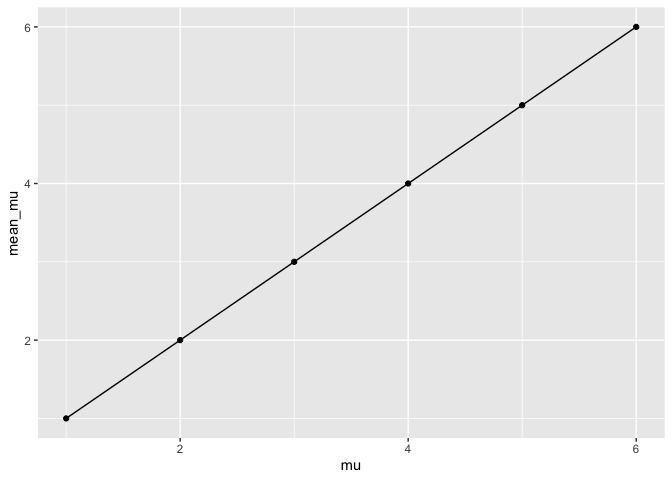
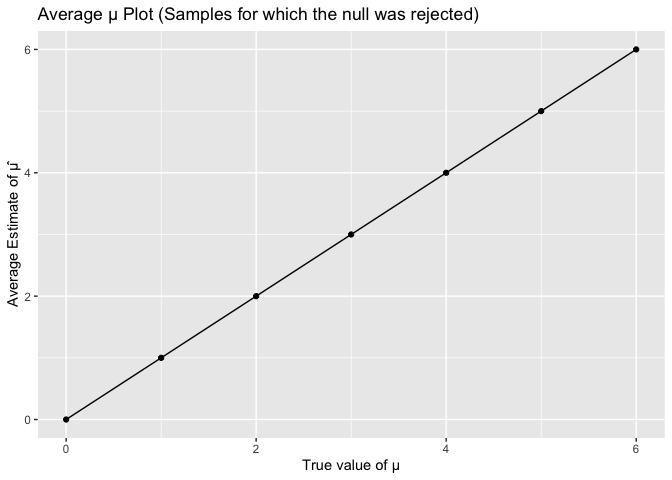
adding descriptions for plots and cleaning code

diff --git a/p8105_hw5_sh4354.md b/p8105_hw5_sh4354.md
@@ -87,7 +87,7 @@ test_results |>
 
 ``` r
 list_participant = 
-  list.files("data")
+  setdiff(list.files("data"), "homicide-data.csv")
 ```
 
 ``` r
@@ -116,8 +116,6 @@ participant_df =
   mutate(subject_id_renumbered = case_when(
            study_arm == "experimental" ~ subject_id_numeric + 10,
            TRUE ~ subject_id_numeric))
-## Warning: Expected 2 pieces. Missing pieces filled with `NA` in 52179 rows [21, 22, 23,
-## 24, 25, 26, 27, 28, 29, 30, 31, 32, 33, 34, 35, 36, 37, 38, 39, 40, ...].
 ```
 
 ``` r
@@ -128,7 +126,6 @@ participant_df |>
         x = "Week",
         y = "Observation", 
        color = "Study Arm")
-## Warning: Removed 417432 rows containing missing values (`geom_line()`).
 ```
 
 ![](p8105_hw5_sh4354_files/figure-gfm/unnamed-chunk-10-1.png)<!-- -->
@@ -183,7 +180,7 @@ sim_results =
 ``` r
 sim_result_df =
   expand_grid(
-    mu = c(1, 2, 3, 4, 5, 6),
+    mu = c(0, 1, 2, 3, 4, 5, 6),
     iter = 1:5000
   ) |> 
   mutate(estimate_df = map(mu, ~sim_mean_sd(mu=.x))) |> 
@@ -201,10 +198,22 @@ sim_result_df |>
   summarise(power = sum(conclusion == "reject null") / n()) |> 
   ggplot(aes(x = mu, y = power)) +
   geom_line() +
-  geom_point()
+  geom_point() + 
+  labs(
+    title = "Power Plot",
+    x = "True Value of μ",
+    y = "Power", 
+  ) 
 ```
 
 ![](p8105_hw5_sh4354_files/figure-gfm/unnamed-chunk-15-1.png)<!-- -->
+The plot shows that as the true value of mu increases, the power (or
+proportion of times the null was rejected) also increases. This makes
+sense because because as the true value of mu is gets farther away from
+0, the null hypothesis of H:μ=0 is more and more likely to be rejected.
+In other words, a greater proportion of estimates from the random sample
+are significantly different from 0. According to the plot, when the true
+value of mu is 5 and 6, the null is rejected for all estimates.
 
 Average mu plot
 
@@ -214,7 +223,12 @@ sim_result_df |>
   summarise(mean_mu = mean(mu)) |> 
   ggplot(aes(x = mu, y = mean_mu)) +
   geom_line() +
-  geom_point()
+  geom_point() + 
+  labs(
+    title = "Average μ Plot",
+    x = "True value of μ",
+    y = "Average Estimate of μ̂"
+  ) 
 ```
 
 ![](p8105_hw5_sh4354_files/figure-gfm/unnamed-chunk-16-1.png)<!-- -->
@@ -228,7 +242,12 @@ sim_result_df |>
   summarise(mean_mu = mean(mu)) |> 
   ggplot(aes(x = mu, y = mean_mu)) +
   geom_line() +
-  geom_point()
+  geom_point() +
+  labs(
+    title = "Average μ Plot (Samples for which the null was rejected)",
+    x = "True value of μ",
+    y = "Average Estimate of μ̂"
+  ) 
 ```
 
 ![](p8105_hw5_sh4354_files/figure-gfm/unnamed-chunk-17-1.png)<!-- -->
@@ -236,4 +255,4 @@ sim_result_df |>
 The sample average of μ̂ across tests for which the null is rejected is
 approximately equal to the true value of μ. This is because the sample
 is random, meaning it will result in approximately the same distribution
-as the true sample size.
+as the true sample mean.
